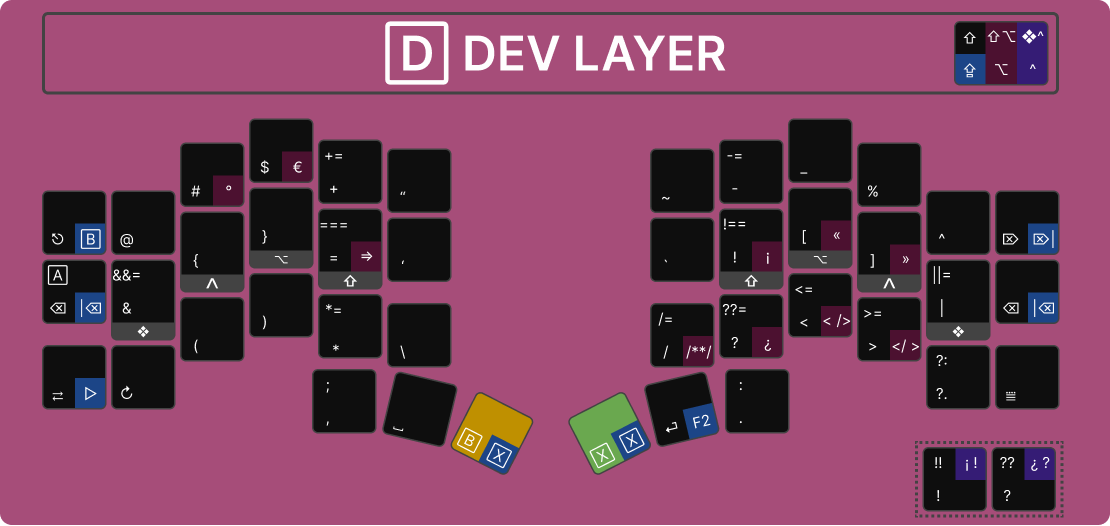
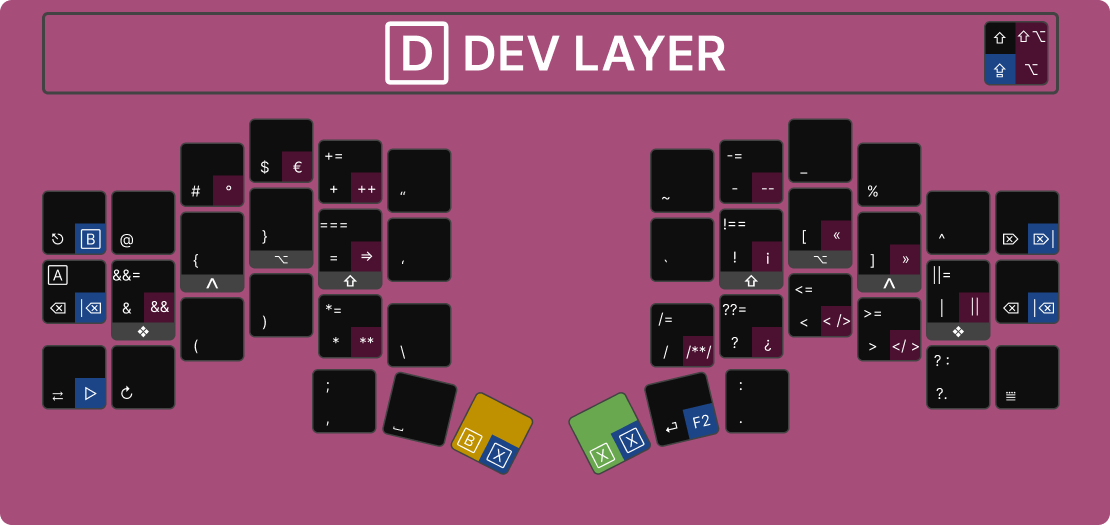
update readme

diff --git a/README.md b/README.md
@@ -4,9 +4,9 @@ ZMK configuration for [swept-crkbd](https://github.com/AYM1607/swept-crkbd/) als
 
 ![Front](.github/images/keyboard/front.jpg)
 
-This is a WIP layout based on Colemak DHm for using on Windows (with **en-US** international layout), complemented with AHK scripts with easy access to development symbols and JS/TS shortcuts.
+This is a WIP layout based on Colemak DHm for using on Windows (with **en-US** layout), complemented with AHK scripts with Spanish accents, easy access to development symbols and JS/TS shortcuts.
 
-![US International](.github/images/layout/US-International.png)
+> **US International** layout is another alternative, but it has a critical downside (at least on Windows) for programming due to dead keys. We are going to lose speed because need to press two keys instead of one: the diacritic or accent followed by an ending character (space, tab or enter) to produce it.
 
 ---
 
@@ -73,7 +73,7 @@ Icons used to describe some modifiers and actions
 | <kbd>🄰</kbd>   | <kbd>⇧</kbd>+<kbd>⌫</kbd>               | Caps lock                                             |
 | <kbd>⇧⇧</kbd>  | <kbd>L⇧</kbd>+<kbd>R⇧</kbd>              | [Caps word](https://zmk.dev/docs/behaviors/caps-word) |
 | <kbd>^^</kbd>  | <kbd>L^</kbd>+<kbd>R^</kbd>              | Cancel caps                                           |
-| <kbd>❖❖</kbd>  | <kbd>L❖</kbd>+<kbd>R❖</kbd>            | Open current layout on screen                         |
+| <kbd>❖❖</kbd>  | <kbd>L❖</kbd>+<kbd>R❖</kbd>            | Show current layout on screen                         |
 
 ### Layers
 
@@ -85,28 +85,22 @@ Letters, accents for Spanish language and quick shortcuts for most used symbols 
 
 ##### Spanish
 
-| Label        | Windows                                 | Android                                               |
-| :----------: | --------------------------------------: | :---------------------------------------------------- |
-| <kbd>á</kbd> | <kbd>⌥</kbd>+<kbd>a</kbd>              | <kbd>⌥</kbd>+<kbd>e</kbd> + <kbd>a</kbd>              |
-| <kbd>Á</kbd> | <kbd>⇧</kbd>+<kbd>⌥</kbd>+<kbd>a</kbd> | <kbd>⌥</kbd>+<kbd>e</kbd> + <kbd>⇧</kbd>+<kbd>a</kbd> |
-| <kbd>é</kbd> | <kbd>⌥</kbd>+<kbd>e</kbd>              | <kbd>⌥</kbd>+<kbd>e</kbd> + <kbd>e</kbd>              |
-| <kbd>É</kbd> | <kbd>⇧</kbd>+<kbd>⌥</kbd>+<kbd>e</kbd> | <kbd>⌥</kbd>+<kbd>e</kbd> + <kbd>⇧</kbd>+<kbd>e</kbd> |
-| <kbd>í</kbd> | <kbd>⌥</kbd>+<kbd>i</kbd>              | <kbd>⌥</kbd>+<kbd>e</kbd> + <kbd>i</kbd>              |
-| <kbd>Í</kbd> | <kbd>⇧</kbd>+<kbd>⌥</kbd>+<kbd>i</kbd> | <kbd>⌥</kbd>+<kbd>e</kbd> + <kbd>⇧</kbd>+<kbd>i</kbd> |
-| <kbd>ó</kbd> | <kbd>⌥</kbd>+<kbd>o</kbd>              | <kbd>⌥</kbd>+<kbd>e</kbd> + <kbd>o</kbd>              |
-| <kbd>Ó</kbd> | <kbd>⇧</kbd>+<kbd>⌥</kbd>+<kbd>o</kbd> | <kbd>⌥</kbd>+<kbd>e</kbd> + <kbd>⇧</kbd>+<kbd>o</kbd> |
-| <kbd>ú</kbd> | <kbd>⌥</kbd>+<kbd>u</kbd>              | <kbd>⌥</kbd>+<kbd>e</kbd> + <kbd>u</kbd>              |
-| <kbd>Ú</kbd> | <kbd>⇧</kbd>+<kbd>⌥</kbd>+<kbd>u</kbd> | <kbd>⌥</kbd>+<kbd>e</kbd> + <kbd>⇧</kbd>+<kbd>u</kbd> |
-| <kbd>ü</kbd> | <kbd>^</kbd>+<kbd>y</kbd>               | <kbd>⌥</kbd>+<kbd>u</kbd> + <kbd>u</kbd>              |
-| <kbd>Ü</kbd> | <kbd>⇧</kbd>+<kbd>^</kbd>+<kbd>y</kbd>  | <kbd>⌥</kbd>+<kbd>u</kbd> + <kbd>⇧</kbd>+<kbd>u</kbd> |
-| <kbd>ñ</kbd> | <kbd>⌥</kbd>+<kbd>n</kbd>              | <kbd>⌥</kbd>+<kbd>n</kbd> + <kbd>n</kbd>              |
-| <kbd>Ñ</kbd> | <kbd>⇧</kbd>+<kbd>⌥</kbd>+<kbd>n</kbd> | <kbd>⌥</kbd>+<kbd>n</kbd> + <kbd>⇧</kbd>+<kbd>n</kbd> |
-
-##### Symbols
-
-| Label         | Windows                                             |
-| :-----------: | --------------------------------------------------: |
-| <kbd>@</kbd>  | <kbd>⌥</kbd>+<kbd>q</kbd>                          |
+| Label        | Windows                                  | Android                                               |
+| :----------: | ---------------------------------------: | ----------------------------------------------------: |
+| <kbd>á</kbd> | <kbd>⌥</kbd>+<kbd>a</kbd>               | <kbd>⌥</kbd>+<kbd>e</kbd> + <kbd>a</kbd>              |
+| <kbd>Á</kbd> | <kbd>⇧</kbd>+<kbd>⌥</kbd>+<kbd>a</kbd>  | <kbd>⌥</kbd>+<kbd>e</kbd> + <kbd>⇧</kbd>+<kbd>a</kbd> |
+| <kbd>é</kbd> | <kbd>⌥</kbd>+<kbd>e</kbd>               | <kbd>⌥</kbd>+<kbd>e</kbd> + <kbd>e</kbd>              |
+| <kbd>É</kbd> | <kbd>⇧</kbd>+<kbd>⌥</kbd>+<kbd>e</kbd>  | <kbd>⌥</kbd>+<kbd>e</kbd> + <kbd>⇧</kbd>+<kbd>e</kbd> |
+| <kbd>í</kbd> | <kbd>⌥</kbd>+<kbd>i</kbd>               | <kbd>⌥</kbd>+<kbd>e</kbd> + <kbd>i</kbd>              |
+| <kbd>Í</kbd> | <kbd>⇧</kbd>+<kbd>⌥</kbd>+<kbd>i</kbd>  | <kbd>⌥</kbd>+<kbd>e</kbd> + <kbd>⇧</kbd>+<kbd>i</kbd> |
+| <kbd>ó</kbd> | <kbd>⌥</kbd>+<kbd>o</kbd>               | <kbd>⌥</kbd>+<kbd>e</kbd> + <kbd>o</kbd>              |
+| <kbd>Ó</kbd> | <kbd>⇧</kbd>+<kbd>⌥</kbd>+<kbd>o</kbd>  | <kbd>⌥</kbd>+<kbd>e</kbd> + <kbd>⇧</kbd>+<kbd>o</kbd> |
+| <kbd>ú</kbd> | <kbd>⌥</kbd>+<kbd>u</kbd>               | <kbd>⌥</kbd>+<kbd>e</kbd> + <kbd>u</kbd>              |
+| <kbd>Ú</kbd> | <kbd>⇧</kbd>+<kbd>⌥</kbd>+<kbd>u</kbd>  | <kbd>⌥</kbd>+<kbd>e</kbd> + <kbd>⇧</kbd>+<kbd>u</kbd> |
+| <kbd>ü</kbd> | <kbd>^</kbd>+<kbd>u</kbd>                | <kbd>⌥</kbd>+<kbd>u</kbd> + <kbd>u</kbd>              |
+| <kbd>Ü</kbd> | <kbd>⇧</kbd>+<kbd>^</kbd>+<kbd>u</kbd>   | <kbd>⌥</kbd>+<kbd>u</kbd> + <kbd>⇧</kbd>+<kbd>u</kbd> |
+| <kbd>ñ</kbd> | <kbd>⌥</kbd>+<kbd>n</kbd>               | <kbd>⌥</kbd>+<kbd>n</kbd> + <kbd>n</kbd>              |
+| <kbd>Ñ</kbd> | <kbd>⇧</kbd>+<kbd>⌥</kbd>+<kbd>n</kbd>  | <kbd>⌥</kbd>+<kbd>n</kbd> + <kbd>⇧</kbd>+<kbd>n</kbd> |
 
 #### 1. DEV
 
@@ -118,45 +112,43 @@ Symbols and dev shortcuts for JS/TS.
 
 | Label           | Windows                                   |
 | :-------------: | ----------------------------------------: |
-| <kbd>°</kbd>    | <kbd>⌥</kbd>+<kbd>#</kbd>                |
+| <kbd>°</kbd>    | <kbd>⌥</kbd>+<kbd>#</kbd>                 |
 | <kbd>€</kbd>    | <kbd>⌥</kbd>+<kbd>$</kbd>                |
-| <kbd>«</kbd>    | <kbd>⌥</kbd>+<kbd>[</kbd>                |
-| <kbd>»</kbd>    | <kbd>⌥</kbd>+<kbd>]</kbd>                |
-| <kbd><=</kbd>   | <kbd>⌥</kbd>+<kbd><</kbd>                |
-| <kbd>>=</kbd>   | <kbd>⌥</kbd>+<kbd>></kbd>                |
-| <kbd>¡</kbd>    | <kbd>❖</kbd>+<kbd>⌥</kbd>+<kbd>!</kbd>   |
-| <kbd>¡░!</kbd>  | <kbd>❖</kbd>+<kbd>^</kbd>+<kbd>!</kbd>   |
-| <kbd>¿</kbd>    | <kbd>❖</kbd>+<kbd>⌥</kbd>+<kbd>?</kbd>   |
-| <kbd>¿░?</kbd>  | <kbd>❖</kbd>+<kbd>^</kbd>+<kbd>?</kbd>   |
+| <kbd>«</kbd>    | <kbd>⌥</kbd>++<kbd>[</kbd>               |
+| <kbd>»</kbd>    | <kbd>⌥</kbd>++<kbd>]</kbd>               |
+| <kbd>¡</kbd>    | <kbd>⌥</kbd>+<kbd>!</kbd>                |
+| <kbd>¿</kbd>    | <kbd>⌥</kbd>+<kbd>?</kbd>                |
 
 ##### JS/TS
 
-| Label                                                                                                                       | Windows                 |
+| Label                                                                                                                       | Windows                     |
 | :-------------------------------------------------------------------------------------------------------------------------: | ---------------------------: |
-| <kbd>[++](https://developer.mozilla.org/en-US/docs/Web/JavaScript/Reference/Operators/Increment)</kbd>                      |  <kbd>⇧</kbd>+<kbd>+</kbd>  |
-| <kbd>[+=](https://developer.mozilla.org/en-US/docs/Web/JavaScript/Reference/Operators/Addition_assignment)</kbd>            |  <kbd>⌥</kbd>+<kbd>+</kbd>  |
-| <kbd>[--](https://developer.mozilla.org/en-US/docs/Web/JavaScript/Reference/Operators/Decrement)</kbd>                      |  <kbd>⇧</kbd>+<kbd>-</kbd>  |
-| <kbd>[-=](https://developer.mozilla.org/en-US/docs/Web/JavaScript/Reference/Operators/Subtraction_assignment)</kbd>         |  <kbd>⌥</kbd>+<kbd>-</kbd>  |
-| <kbd>[**](https://developer.mozilla.org/en-US/docs/Web/JavaScript/Reference/Operators/Exponentiation)</kbd>                 |  <kbd>⇧</kbd>+<kbd>*</kbd>  |
-| <kbd>[*=](https://developer.mozilla.org/en-US/docs/Web/JavaScript/Reference/Operators/Multiplication_assignment)</kbd>      |  <kbd>⌥</kbd>+<kbd>*</kbd>  |
-| <kbd>[/=](https://developer.mozilla.org/en-US/docs/Web/JavaScript/Reference/Operators/Division_assignment)</kbd>            |  <kbd>⌥</kbd>+<kbd>/</kbd>  |
-| <kbd>[&&](https://developer.mozilla.org/en-US/docs/Web/JavaScript/Reference/Operators/Logical_AND)</kbd>                    |  <kbd>⇧</kbd>+<kbd>&</kbd>  |
-| <kbd>[&&=](https://developer.mozilla.org/en-US/docs/Web/JavaScript/Reference/Operators/Logical_AND_assignment)</kbd>        |  <kbd>⌥</kbd>+<kbd>&</kbd>  |
-| <kbd>[\|\|](https://developer.mozilla.org/en-US/docs/Web/JavaScript/Reference/Operators/Logical_OR)</kbd>                   |  <kbd>⇧</kbd>+<kbd>\|</kbd>  |
-| <kbd>[\|\|=](https://developer.mozilla.org/en-US/docs/Web/JavaScript/Reference/Operators/Logical_OR_assignment)</kbd>       |  <kbd>⌥</kbd>+<kbd>\|</kbd>  |
-| <kbd>[??](https://developer.mozilla.org/en-US/docs/Web/JavaScript/Reference/Operators/Nullish_coalescing)</kbd>             |  <kbd>⇧</kbd>+<kbd>?</kbd>  |
-| <kbd>[??=](https://developer.mozilla.org/en-US/docs/Web/JavaScript/Reference/Operators/Nullish_coalescing_assignment)</kbd> |  <kbd>⌥</kbd>+<kbd>?</kbd>  |
-| <kbd>[=>](https://developer.mozilla.org/en-US/docs/Web/JavaScript/Reference/Functions/Arrow_functions)</kbd>                |  <kbd>⇧</kbd>+<kbd>=</kbd>  |
-| <kbd>[===](https://developer.mozilla.org/en-US/docs/Web/JavaScript/Reference/Operators/Strict_equality)</kbd>               |  <kbd>⌥</kbd>+<kbd>=</kbd>  |
-| <kbd>[!!](https://developer.mozilla.org/en-US/docs/Web/JavaScript/Reference/Operators/Logical_NOT#double_not_!!)</kbd>      |  <kbd>⇧</kbd>+<kbd>!</kbd>  |
-| <kbd>[!==](https://developer.mozilla.org/en-US/docs/Web/JavaScript/Reference/Operators/Strict_inequality)</kbd>             |  <kbd>⌥</kbd>+<kbd>!</kbd>  |
+| <kbd>[++](https://developer.mozilla.org/en-US/docs/Web/JavaScript/Reference/Operators/Increment)</kbd>                      |  <kbd>⌥</kbd>+<kbd>+</kbd>  |
+| <kbd>[+=](https://developer.mozilla.org/en-US/docs/Web/JavaScript/Reference/Operators/Addition_assignment)</kbd>            |  <kbd>⇧</kbd>+<kbd>+</kbd>  |
+| <kbd>[--](https://developer.mozilla.org/en-US/docs/Web/JavaScript/Reference/Operators/Decrement)</kbd>                      |  <kbd>⌥</kbd>+<kbd>-</kbd>  |
+| <kbd>[-=](https://developer.mozilla.org/en-US/docs/Web/JavaScript/Reference/Operators/Subtraction_assignment)</kbd>         |  <kbd>⇧</kbd>+<kbd>-</kbd>  |
+| <kbd>[**](https://developer.mozilla.org/en-US/docs/Web/JavaScript/Reference/Operators/Exponentiation)</kbd>                 |  <kbd>⌥</kbd>+<kbd>*</kbd>  |
+| <kbd>[*=](https://developer.mozilla.org/en-US/docs/Web/JavaScript/Reference/Operators/Multiplication_assignment)</kbd>      |  <kbd>⇧</kbd>+<kbd>*</kbd>  |
+| <kbd>[/=](https://developer.mozilla.org/en-US/docs/Web/JavaScript/Reference/Operators/Division_assignment)</kbd>            |  <kbd>⇧</kbd>+<kbd>/</kbd>  |
+| <kbd>[&&](https://developer.mozilla.org/en-US/docs/Web/JavaScript/Reference/Operators/Logical_AND)</kbd>                    |  <kbd>⌥</kbd>+<kbd>&</kbd>  |
+| <kbd>[&&=](https://developer.mozilla.org/en-US/docs/Web/JavaScript/Reference/Operators/Logical_AND_assignment)</kbd>        |  <kbd>⇧</kbd>+<kbd>&</kbd>  |
+| <kbd>[\|\|](https://developer.mozilla.org/en-US/docs/Web/JavaScript/Reference/Operators/Logical_OR)</kbd>                   |  <kbd>⌥</kbd>+<kbd>\|</kbd>  |
+| <kbd>[\|\|=](https://developer.mozilla.org/en-US/docs/Web/JavaScript/Reference/Operators/Logical_OR_assignment)</kbd>       |  <kbd>⇧</kbd>+<kbd>\|</kbd>  |
+| <kbd>[??](https://developer.mozilla.org/en-US/docs/Web/JavaScript/Reference/Operators/Nullish_coalescing)</kbd>             |  <kbd>⌥</kbd>+<kbd>?</kbd>  |
+| <kbd>[??=](https://developer.mozilla.org/en-US/docs/Web/JavaScript/Reference/Operators/Nullish_coalescing_assignment)</kbd> |  <kbd>⇧</kbd>+<kbd>?</kbd>  |
+| <kbd>[=>](https://developer.mozilla.org/en-US/docs/Web/JavaScript/Reference/Functions/Arrow_functions)</kbd>                |  <kbd>⌥</kbd>+<kbd>=</kbd>  |
+| <kbd>[===](https://developer.mozilla.org/en-US/docs/Web/JavaScript/Reference/Operators/Strict_equality)</kbd>               |  <kbd>⇧</kbd>+<kbd>=</kbd>  |
+| <kbd>[!!](https://developer.mozilla.org/en-US/docs/Web/JavaScript/Reference/Operators/Logical_NOT#double_not_!!)</kbd>      |  <kbd>⌥</kbd>+<kbd>!</kbd>  |
+| <kbd>[!==](https://developer.mozilla.org/en-US/docs/Web/JavaScript/Reference/Operators/Strict_inequality)</kbd>             |  <kbd>⇧</kbd>+<kbd>!</kbd>  |
+| <kbd>[<=](https://developer.mozilla.org/en-US/docs/Web/JavaScript/Reference/Operators/Less_than_or_equal)</kbd>             | <kbd>⇧</kbd>+<kbd><</kbd>   |
+| <kbd>[>=](https://developer.mozilla.org/en-US/docs/Web/JavaScript/Reference/Operators/Greater_than_or_equal)</kbd>          | <kbd>⇧</kbd>+<kbd>></kbd>   |
 
 ##### Auto Brackets
 
-| Label | Windows                                             | Action          |
-| :---: | --------------------------------------------------: | --------------- |
-| <░/>  | <kbd>❖</kbd>+<kbd>⌥</kbd>+<kbd><</kbd>             | HTML Void Tag   |
-| </░>  | <kbd>❖</kbd>+<kbd>⌥</kbd>+<kbd>></kbd>             | HTML Close Tag  |
+| Label            | Windows                                             | Action          |
+| :--------------: | --------------------------------------------------: | --------------- |
+| <kbd><░/></kbd>  | <kbd>❖</kbd>+<kbd>⌥</kbd>+<kbd><</kbd>             | HTML Void Tag   |
+| <kbd></░></kbd>  | <kbd>❖</kbd>+<kbd>⌥</kbd>+<kbd>></kbd>             | HTML Close Tag  |
 
 ##### Browser DevTools
 
@@ -171,8 +163,7 @@ Symbols and dev shortcuts for JS/TS.
 | Label             | Windows                                 | Action                      |
 | ----------------: | --------------------------------------: | --------------------------- |
 | <kbd>//</kbd>     | <kbd>⌃</kbd>+<kbd>/</kbd>               | Toggle line comment         |
-| <kbd>/*░*/</kbd>  | <kbd>⌥</kbd>+<kbd>/</kbd>               | Toggle block comment        |
-| <kbd><>░</></kbd> | <kbd>❖</kbd>+<kbd>^</kbd>+<kbd><</kbd>  | Fragment brackets for React |
+| <kbd>/*░*/</kbd>  | <kbd>⇧</kbd>+<kbd>/</kbd>               | Toggle block comment        |
 
 #### 2. AXN
 
@@ -238,7 +229,6 @@ Dedicated to Bluetooth and media controls.
 | <kbd>🔅</kbd>  | Bright down              |
 | <kbd>🔆</kbd>  | Bright up                |
 | <kbd>⎉</kbd>   | Connect Quick Action     |
-| <kbd>⎚</kbd>   | Fancy Zones              |
 | <kbd>▤</kbd>   | Task Manager             |
 | <kbd>ⓘ</kbd>   | System Info             |
 | <kbd>⛨</kbd>   | Windows Security        |
